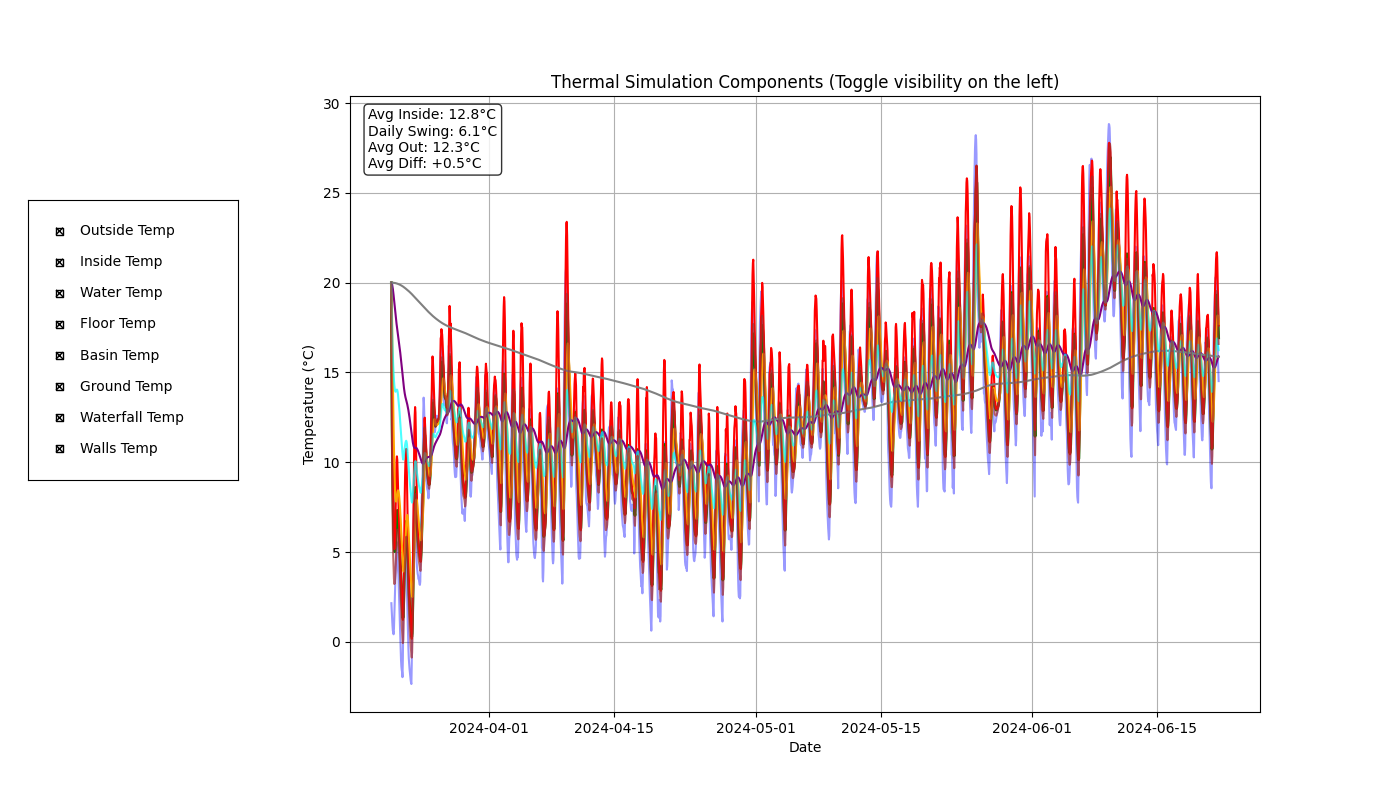
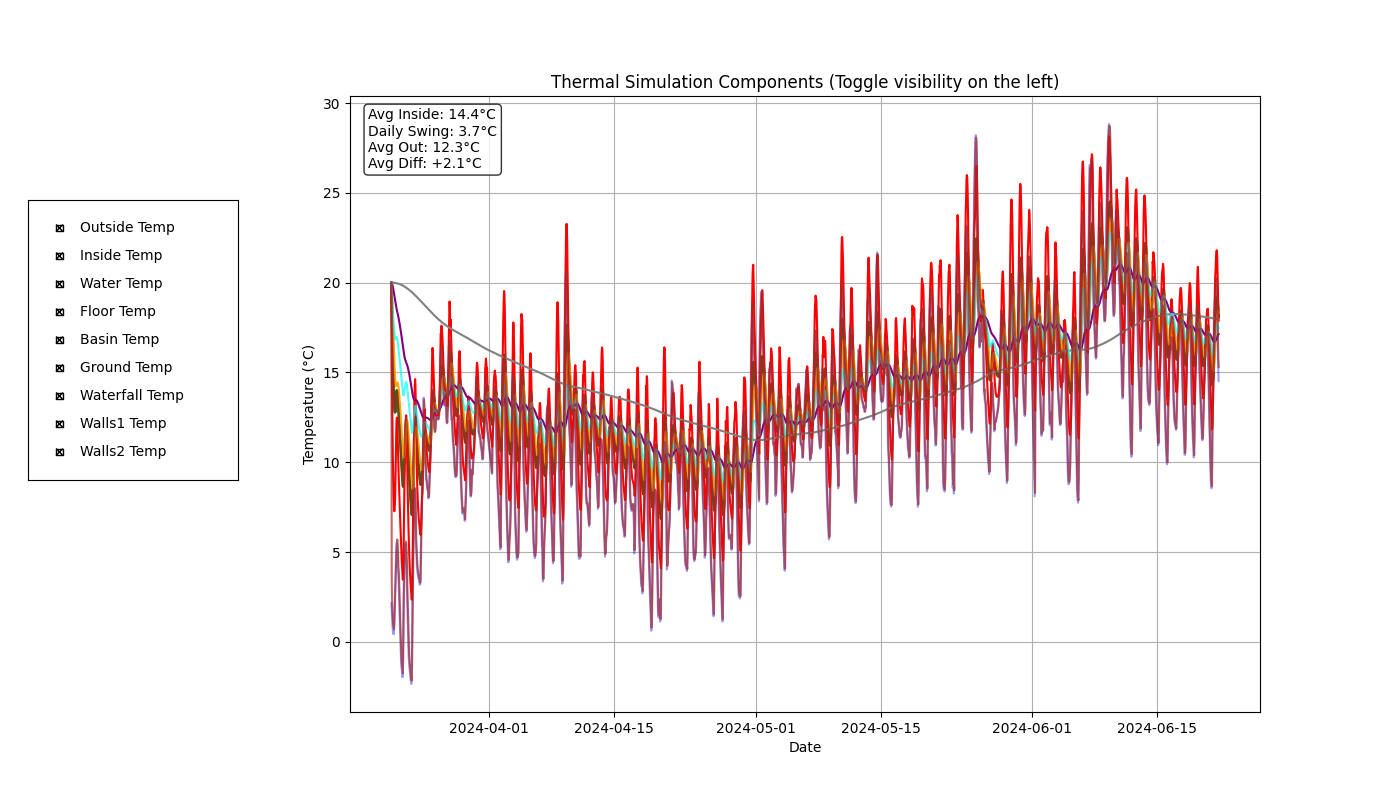
Update to system of equations
Separated inside and outside of the wall for a better simulation. Hopefully final version!!

diff --git a/Thermal_sim/Thermal_simulation_updated_scheme.py b/Thermal_sim/Thermal_simulation_updated_scheme.py
@@ -59,6 +59,10 @@ def run_thermal_simulation():
     rho_air = 1.225       # Density of air (kg/m3)          # Literature
     c_p_wat = 4184      # Specific heat of water (J/kg.K)   # Literature
     rho_wat = 1000      # Density of water (kg/m3)          # Literature
+    c_p_plaster = 1090  # Needs checking (AI)
+    rho_plaster = 1200  # Needs checking (AI)
+    c_p_brick = 821     # Needs checking (AI)
+    rho_brick = 1600    # Needs checking (AI)
     sigma = 5.67e-8     # Stefan-Boltzmann (W/m2.K4)        # Literature
 
 
@@ -69,7 +73,9 @@ def run_thermal_simulation():
     V_fa = 0.0005       # Volume of waterfall
 
     A_collector = 10.15  # Surface area of the absorber
-    A_walls = 51.52     # Surface area of the walls         # Calculated (still needs an extra check)
+    A_walls1 = 51.52     # Surface area of the inside walls         # Calculated (still needs an extra check)
+    A_walls2 = 51.52     # Surface area of the outside walls         # Calculated (still needs an extra check)
+    A_wiso = 51.52     # Surface area of the outside walls         # Calculated (still needs an extra check)
     A_in_wat = 10.15     # only steep window
     A_ground = 16       # Surface area of the ground
     A_floor = 16        # Surface area of the floor
@@ -78,7 +84,9 @@ def run_thermal_simulation():
     A_iso = 16
 
     d_iso = 0.15
-    d_walls = 0.225
+    d_walls1 = 0.015    # Needs checking (AI)
+    d_walls2 = 0.09     # Needs checking (AI)
+    d_wiso = 0.12       # Needs checking (AI)
     d_ground = 0.3 
     d_basin = 1 
 
@@ -90,24 +98,30 @@ def run_thermal_simulation():
     C_ground = 84*10**6
     C_iso = 117600
     C_fa = V_fa*rho_wat*c_p_wat
-    C_walls = 5.6*10**6
+    C_walls1 = A_walls1*d_walls1*rho_plaster*c_p_plaster
+    C_walls2 = A_walls2*d_walls2*rho_brick*c_p_brick
 
     # Convection Coefficients (W/m2.K)
     # h_out is according to Gemini: 10 + 4v , thus calculating per step in loop
     h_in = 8
-    h_walls = 10
+    h_out = 23
+    h_walls1 = h_in
+    h_walls2 = h_out
     h_fa = 3 # section 6.2
     h_floor = 10
 
     # Conduction Coefficients (W/m2.K)
     k_iso = 0.002 #polyurethane
-    k_ground = 1.2  #Xander: Mona is echt GOATed, ik vond dit niet
-    k_walls = 0.045 #Xander: gonna add full calculation in main soon (double check tho)
+    k_ground = 1.2  #Xander: Mona is echt GOATed, ik vond geen bronnen (maar ik had het ook snel opgegeven :))
+    k_walls1 = 38 #Xander: gonna add full calculation in main soon (double check tho)
+    k_walls2 = 5.666 #Xander: gonna add full calculation in main soon (double check tho)
+    k_wiso = 0.208
     # Radiation Coefficients (W/m2.K)
     epsilon_w_in = 0.95       # Emissivity (this is water, right?)
     epsilon_w_out = 0.95      # Emissivity (this is water, right?)
     epsilon_fa = 0.95         # Emissivity
-    epsilon_walls = 0.93      # Emissivity
+    epsilon_walls1 = 0.91      # Emissivity
+    epsilon_walls2 = 0.93      # Emissivity
     epsilon_floor = 0.97      # Emissivity
 
     # advection coefficients (W/m2.K)
@@ -133,7 +147,8 @@ def run_thermal_simulation():
     T_floor = np.zeros(hours)
     T_iso = np.zeros(hours)
     T_fa = np.zeros(hours)
-    T_walls = np.zeros(hours)
+    T_walls1 = np.zeros(hours)
+    T_walls2 = np.zeros(hours)
 
     # Initial conditions (K),  Needs update.
     T_in[0] = 273.15 + 20
@@ -143,7 +158,8 @@ def run_thermal_simulation():
     T_floor[0] = 273.15 + 20
     T_iso[0] = 273.15 + 20
     T_fa[0] = 273.15 + 20
-    T_walls[0] = 273.15 + 20
+    T_walls1[0] = 273.15 + 20
+    T_walls2[0] = 273.15 + 20
 
 
     current_T_in = T_in[0]
@@ -153,13 +169,13 @@ def run_thermal_simulation():
     current_T_floor = T_floor[0]
     current_T_iso = T_iso[0]
     current_T_fa = T_fa[0]
-    current_T_walls = T_walls[0]
+    current_T_walls1 = T_walls1[0]
+    current_T_walls2 = T_walls2[0]
 
 
     # 7. Simulation Loop (Euler Integration)
     for i in range(hours - 1):
         current_T_out = t_out_series[i] + 273.15 # Need kelvin for (T^4-T^4)
-        h_out = 23 #0# + 4 * wind_speed_series[i] # Update h_out based on current wind speed
         if T_in[i] > 273.15 + 30:
             P_sun = 0
         elif T_in[i] > 273.15 + 20:
@@ -197,21 +213,26 @@ def run_thermal_simulation():
                 + A_fa * (
                 h_fa * (current_T_fa - current_T_in) +
                 sigma * epsilon_fa * (current_T_fa**4 - current_T_in**4))\
-                + A_walls * (
-                h_walls * (current_T_walls - current_T_in) +
-                sigma * epsilon_walls * (current_T_walls**4 - current_T_in**4))\
+                + A_walls1 * (
+                h_walls1 * (current_T_walls1 - current_T_in) +
+                sigma * epsilon_walls1 * (current_T_walls1**4 - current_T_in**4))\
                 + A_floor * (
                 h_floor * (current_T_floor - current_T_in) +
                 sigma * epsilon_floor * (current_T_floor**4 - current_T_in**4)    
                 )
             
-            dT_walls = A_walls * (
-                h_walls * (current_T_in - current_T_walls) +
-                h_walls * (current_T_out - current_T_walls) +
-                sigma * epsilon_walls * (current_T_in**4 - current_T_walls**4) +
-                sigma * epsilon_walls * (current_T_out**4 - current_T_walls**4) +
-                k_walls / d_walls * (current_T_in - current_T_walls) +
-                k_walls / d_walls * (current_T_out - current_T_walls)
+            dT_walls1 = A_walls1 * (
+                h_walls1 * (current_T_in - current_T_walls1) +
+                sigma * epsilon_walls1 * (current_T_in**4 - current_T_walls1**4) +
+                k_walls1 / d_walls1 * (current_T_in - current_T_walls1) +
+                k_wiso / d_wiso * (current_T_walls2 - current_T_walls1)
+            )
+
+            dT_walls2 = A_walls2 * (
+                h_walls2 * (current_T_out - current_T_walls2) +
+                sigma * epsilon_walls2 * (current_T_out**4 - current_T_walls2**4) +
+                k_walls2 / d_walls2 * (current_T_out - current_T_walls2) +
+                k_wiso / d_wiso * (current_T_walls1 - current_T_walls2)
             )
 
             dT_fa = m_dot_pump * c_p_wat * (current_T_basin - current_T_fa) +\
@@ -241,7 +262,8 @@ def run_thermal_simulation():
             current_T_ground += dT_ground * dt / (C_ground * 3600)
             current_T_iso += dT_iso * dt / (C_iso * 3600)
             current_T_fa += dT_fa * dt / (C_fa * 3600)
-            current_T_walls += dT_walls * dt / (C_walls * 3600)
+            current_T_walls1 += dT_walls1 * dt / (C_walls1 * 3600)
+            current_T_walls2 += dT_walls2 * dt / (C_walls2 * 3600)
 
         T_in[i+1] = current_T_in
         T_wat[i+1] = current_T_wat
@@ -250,7 +272,8 @@ def run_thermal_simulation():
         T_ground[i+1] = current_T_ground
         T_iso[i+1] = current_T_iso
         T_fa[i+1] = current_T_fa
-        T_walls[i+1] = current_T_walls
+        T_walls1[i+1] = current_T_walls1
+        T_walls2[i+1] = current_T_walls2
 
 
     #
@@ -263,7 +286,8 @@ def run_thermal_simulation():
     T_ground -= 273.15
     T_iso -= 273.15
     T_fa -= 273.15
-    T_walls -= 273.15
+    T_walls1 -= 273.15
+    T_walls2 -= 273.15
 
 
     # ---------------------------------------------------------
@@ -311,7 +335,8 @@ def run_thermal_simulation():
         'Basin Temp':   ax.plot(df_sim['datetime'], T_basin, label='Basin Temp', color='purple')[0],
         'Ground Temp':  ax.plot(df_sim['datetime'], T_ground, label='Ground Temp', color='gray')[0],
         'Waterfall Temp': ax.plot(df_sim['datetime'], T_fa, label='Waterfall Temp', color='cyan', alpha=0.7)[0],
-        'Walls Temp':    ax.plot(df_sim['datetime'], T_walls, label='Walls Temp', color='brown', alpha=0.7)[0]
+        'Walls1 Temp':    ax.plot(df_sim['datetime'], T_walls1, label='Walls1 Temp', color='brown', alpha=0.7)[0],
+        'Walls2 Temp':    ax.plot(df_sim['datetime'], T_walls2, label='Walls2 Temp', color='brown', alpha=0.7)[0]
     }
 
     # Text box for stats